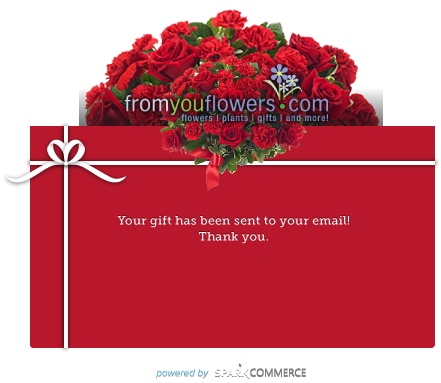
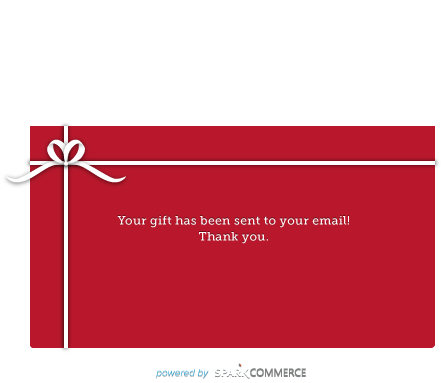
Fix: Update sent page.

Changed region(s): [[0.1769, 0.0287, 0.8844, 0.4883]]

diff --git a/public/assets/javascripts/application.js b/public/assets/javascripts/application.js
@@ -10,60 +10,80 @@ $(document).ready(function() {
         $('.lightbox h2').html('Compliments of JJ Buckley Fines Wines');
         $('.lightbox_decor').attr('class', 'lightbox_decor uflowers');
         $('.advertiser_logo img').attr('src', 'assets/images/logos/uflowers.png');
+        $('.sentbox_decor').attr('class', 'sentbox_decor uflowers');
+        $('.sentbox p').html('Find terrific wines to buy at <a href=\"http://www.jjbuckley.com/\">JJ Buckley Fine Wines</a> &#187;');
         break;
       case "winetasting":
         $('.lightbox h1').html('$15 GIFT AT <a href=\"http://www.livingsocial.com/\">LIVINGSOCIAL.COM</a>');
         $('.lightbox h2').html('Compliments of WineTasting.com');
         $('.lightbox_decor').attr('class', 'lightbox_decor livingsocial');
         $('.advertiser_logo img').attr('src', 'assets/images/logos/livingsocial.png');
+        $('.sentbox_decor').attr('class', 'sentbox_decor livingsocial');
+        $('.sentbox p').html('Find terrific wines to buy at <a href=\"http://www.winetasting.com/\">WineTasting.com</a> &#187;');
         break;
       case "winetasting_2":
         $('.lightbox h1').html('$25 GIFT AT <a href=\"http://www.bluecrab.com/\">BLUE CRAB TRADING CO.</a>');
         $('.lightbox h2').html('Compliments of WineTasting.com');
         $('.lightbox_decor').attr('class', 'lightbox_decor blue_crab');
         $('.advertiser_logo img').attr('src', 'assets/images/logos/blue-crab.png');
+        $('.sentbox_decor').attr('class', 'sentbox_decor blue_crab');
+        $('.sentbox p').html('Find terrific wines to buy at <a href=\"http://www.winetasting.com/\">WineTasting.com</a> &#187;');
         break;
       case "winetasting_3":
         $('.lightbox h1').html('$25 GIFT AT <a href=\"http://www.shoebuy.com/\">SHOEBUY.COM</a>');
         $('.lightbox h2').html('Compliments of WineTasting.com');
         $('.lightbox_decor').attr('class', 'lightbox_decor shoe_buy');
         $('.advertiser_logo img').attr('src', 'assets/images/logos/shoe-buy.png');
+        $('.sentbox_decor').attr('class', 'sentbox_decor shoe_buy');
+        $('.sentbox p').html('Find terrific wines to buy at <a href=\"http://www.winetasting.com/\">WineTasting.com</a> &#187;');
         break;
       case "blue_crab":
         $('.lightbox h1').html('$20 GIFT AT <a href=\"http://www.livingsocial.com/\">LIVINGSOCIAL.COM</a>');
         $('.lightbox h2').html('Compliments of Blue Crab Trading Co.');
         $('.lightbox_decor').attr('class', 'lightbox_decor livingsocial');
         $('.advertiser_logo img').attr('src', 'assets/images/logos/livingsocial.png');
+        $('.sentbox_decor').attr('class', 'sentbox_decor livingsocial');
+        $('.sentbox p').html('Find terrific seafood to buy at <a href=\"http://www.bluecrab.com/\">Blue Crab Trading Co.</a> &#187;');
         break;
       case "bssc":
         $('.lightbox h1').html('$15 GIFT AT <a href=\"http://www.fromyouflowers.com/\">FROMYOUFLOWERS.COM</a>');
         $('.lightbox h2').html('Compliments of Boston Ski & Sports Club');
         $('.lightbox_decor').attr('class', 'lightbox_decor uflowers');
         $('.advertiser_logo img').attr('src', 'assets/images/logos/uflowers.png');
+        $('.sentbox_decor').attr('class', 'sentbox_decor uflowers');
+        $('.sentbox p').html('Discover terrific sports at <a href=\"http://www.bssc.com/\">Boston Ski & Sports Club</a> &#187;');
         break;
       case "citygolf":
         $('.lightbox h1').html('$15 GIFT AT <a href=\"http://www.fromyouflowers.com/\">FROMYOUFLOWERS.COM</a>');
         $('.lightbox h2').html('Compliments of CityGolf Boston');
         $('.lightbox_decor').attr('class', 'lightbox_decor uflowers');
         $('.advertiser_logo img').attr('src', 'assets/images/logos/uflowers.png');
+        $('.sentbox_decor').attr('class', 'sentbox_decor uflowers');
+        $('.sentbox p').html('Discover terrific golf games at <a href=\"http://www.citygolfboston.com/\">CityGolf Boston</a> &#187;');
         break;
       case "harryhasit":
         $('.lightbox h1').html('$15 GIFT AT <a href=\"http://www.fromyouflowers.com/\">FROMYOUFLOWERS.COM</a>');
         $('.lightbox h2').html('Compliments of HarryHasIt.com');
         $('.lightbox_decor').attr('class', 'lightbox_decor uflowers');
         $('.advertiser_logo img').attr('src', 'assets/images/logos/uflowers.png');
+        $('.sentbox_decor').attr('class', 'sentbox_decor uflowers');
+        $('.sentbox p').html('Find any kind of tickets to buy at <a href=\"http://www.harryhasit.com/\">HarryHasIt.com</a> &#187;');
         break;
       case "rockspot":
         $('.lightbox h1').html('$15 GIFT AT <a href=\"http://www.fromyouflowers.com/\">FROMYOUFLOWERS.COM</a>');
         $('.lightbox h2').html('Compliments of Rock Spot Climbing');
         $('.lightbox_decor').attr('class', 'lightbox_decor uflowers');
         $('.advertiser_logo img').attr('src', 'assets/images/logos/uflowers.png');
+        $('.sentbox_decor').attr('class', 'sentbox_decor uflowers');
+        $('.sentbox p').html('Find terrific rock climbing games at <a href=\"http://www.rockspotclimbing.com/\">Rock Spot Climbing</a> &#187;');
         break;
       case "northern_outdoors":
         $('.lightbox h1').html('$15 GIFT AT <a href=\"http://www.fromyouflowers.com/\">FROMYOUFLOWERS.COM</a>');
         $('.lightbox h2').html('Compliments of Northern Outdoors');
         $('.lightbox_decor').attr('class', 'lightbox_decor uflowers');
         $('.advertiser_logo img').attr('src', 'assets/images/logos/uflowers.png');
+        $('.sentbox_decor').attr('class', 'sentbox_decor uflowers');
+        $('.sentbox p').html('Discover terrific outdoor games at <a href=\"http://www.northernoutdoors.com/\">Northern Outdoors</a> &#187;');
         break;
     }
     

diff --git a/public/sent.html b/public/sent.html
@@ -4,15 +4,33 @@
   <title>JJBuckley | fromyouflowers.com</title>
   <link rel="stylesheet" type="text/css" href="assets/css/application.css" />
   <link href='http://fonts.googleapis.com/css?family=Cutive' rel='stylesheet' type='text/css'>
+  <script type="text/javascript" src="assets/javascripts/modernizr-2.5.3.min.js"></script>
+  <script type="text/javascript" src="assets/javascripts/jquery.js"></script>
+  <script type="text/javascript" src="assets/javascripts/application.js"></script>
 </head>
-<body>
-  
+<body id="jjbuckley">
+  <div class="publisher_logo"></div>
   <div class="sentbox">
+    <div class="sentbox_decor uflowers"></div>
     <p>Find terrific wines to buy at <a href="http://www.jjbuckley.com/">JJ Buckley Fine Wines</a> &#187;</p>
   </div><!-- /.sentbox -->
   
   <div class="progress_bar step_3"></div>
   
+  <div id="navigation">
+    <h3 style="color: #999;padding-bottom: 10px;">Publishers</h3>
+    <a href="#" class="northern_outdoors">Northern Outdoors</a>
+    <a href="#" class="jjbuckley">JjBuckley</a>
+    <a href="#" class="winetasting">WineTasting.com</a>
+    <a href="#" class="winetasting_2">WineTasting.com + Blue Crab</a>
+    <a href="#" class="winetasting_3">WineTasting.com + ShoeBuy.com</a>
+    <a href="#" class="bssc">BSSC</a>
+    <a href="#" class="citygolf">CityGolf Boston</a>
+    <a href="#" class="harryhasit">HarryHasIt.com</a>
+    <a href="#" class="rockspot">Rock Sport Climbing</a>
+    <a href="#" class="blue_crab">Blue Crab Trading Co.</a>
+  </div>
+
 </body>
 </html>
 

diff --git a/public/assets/css/application.css b/public/assets/css/application.css
@@ -432,6 +432,28 @@ h1 a:hover {
   background: url(../images/decors/shoe-buy.png) no-repeat center bottom;
 }
 
+.sentbox_decor {
+  width: 380px;
+  height: 125px;
+  position: absolute;
+  margin-left: 40px;
+}
+
+.sentbox_decor.uflowers {
+  background: url(../images/decors/uflowers.png) no-repeat center top;
+}
+
+.sentbox_decor.livingsocial {
+  background: url(../images/decors/livingsocial.png) no-repeat center top;
+}
+
+.sentbox_decor.blue_crab {
+  background: url(../images/decors/blue-crab.png) no-repeat center top;
+}
+
+.sentbox_decor.shoe_buy {
+  background: url(../images/decors/shoe-buy.png) no-repeat center top;
+}
 
 
 
